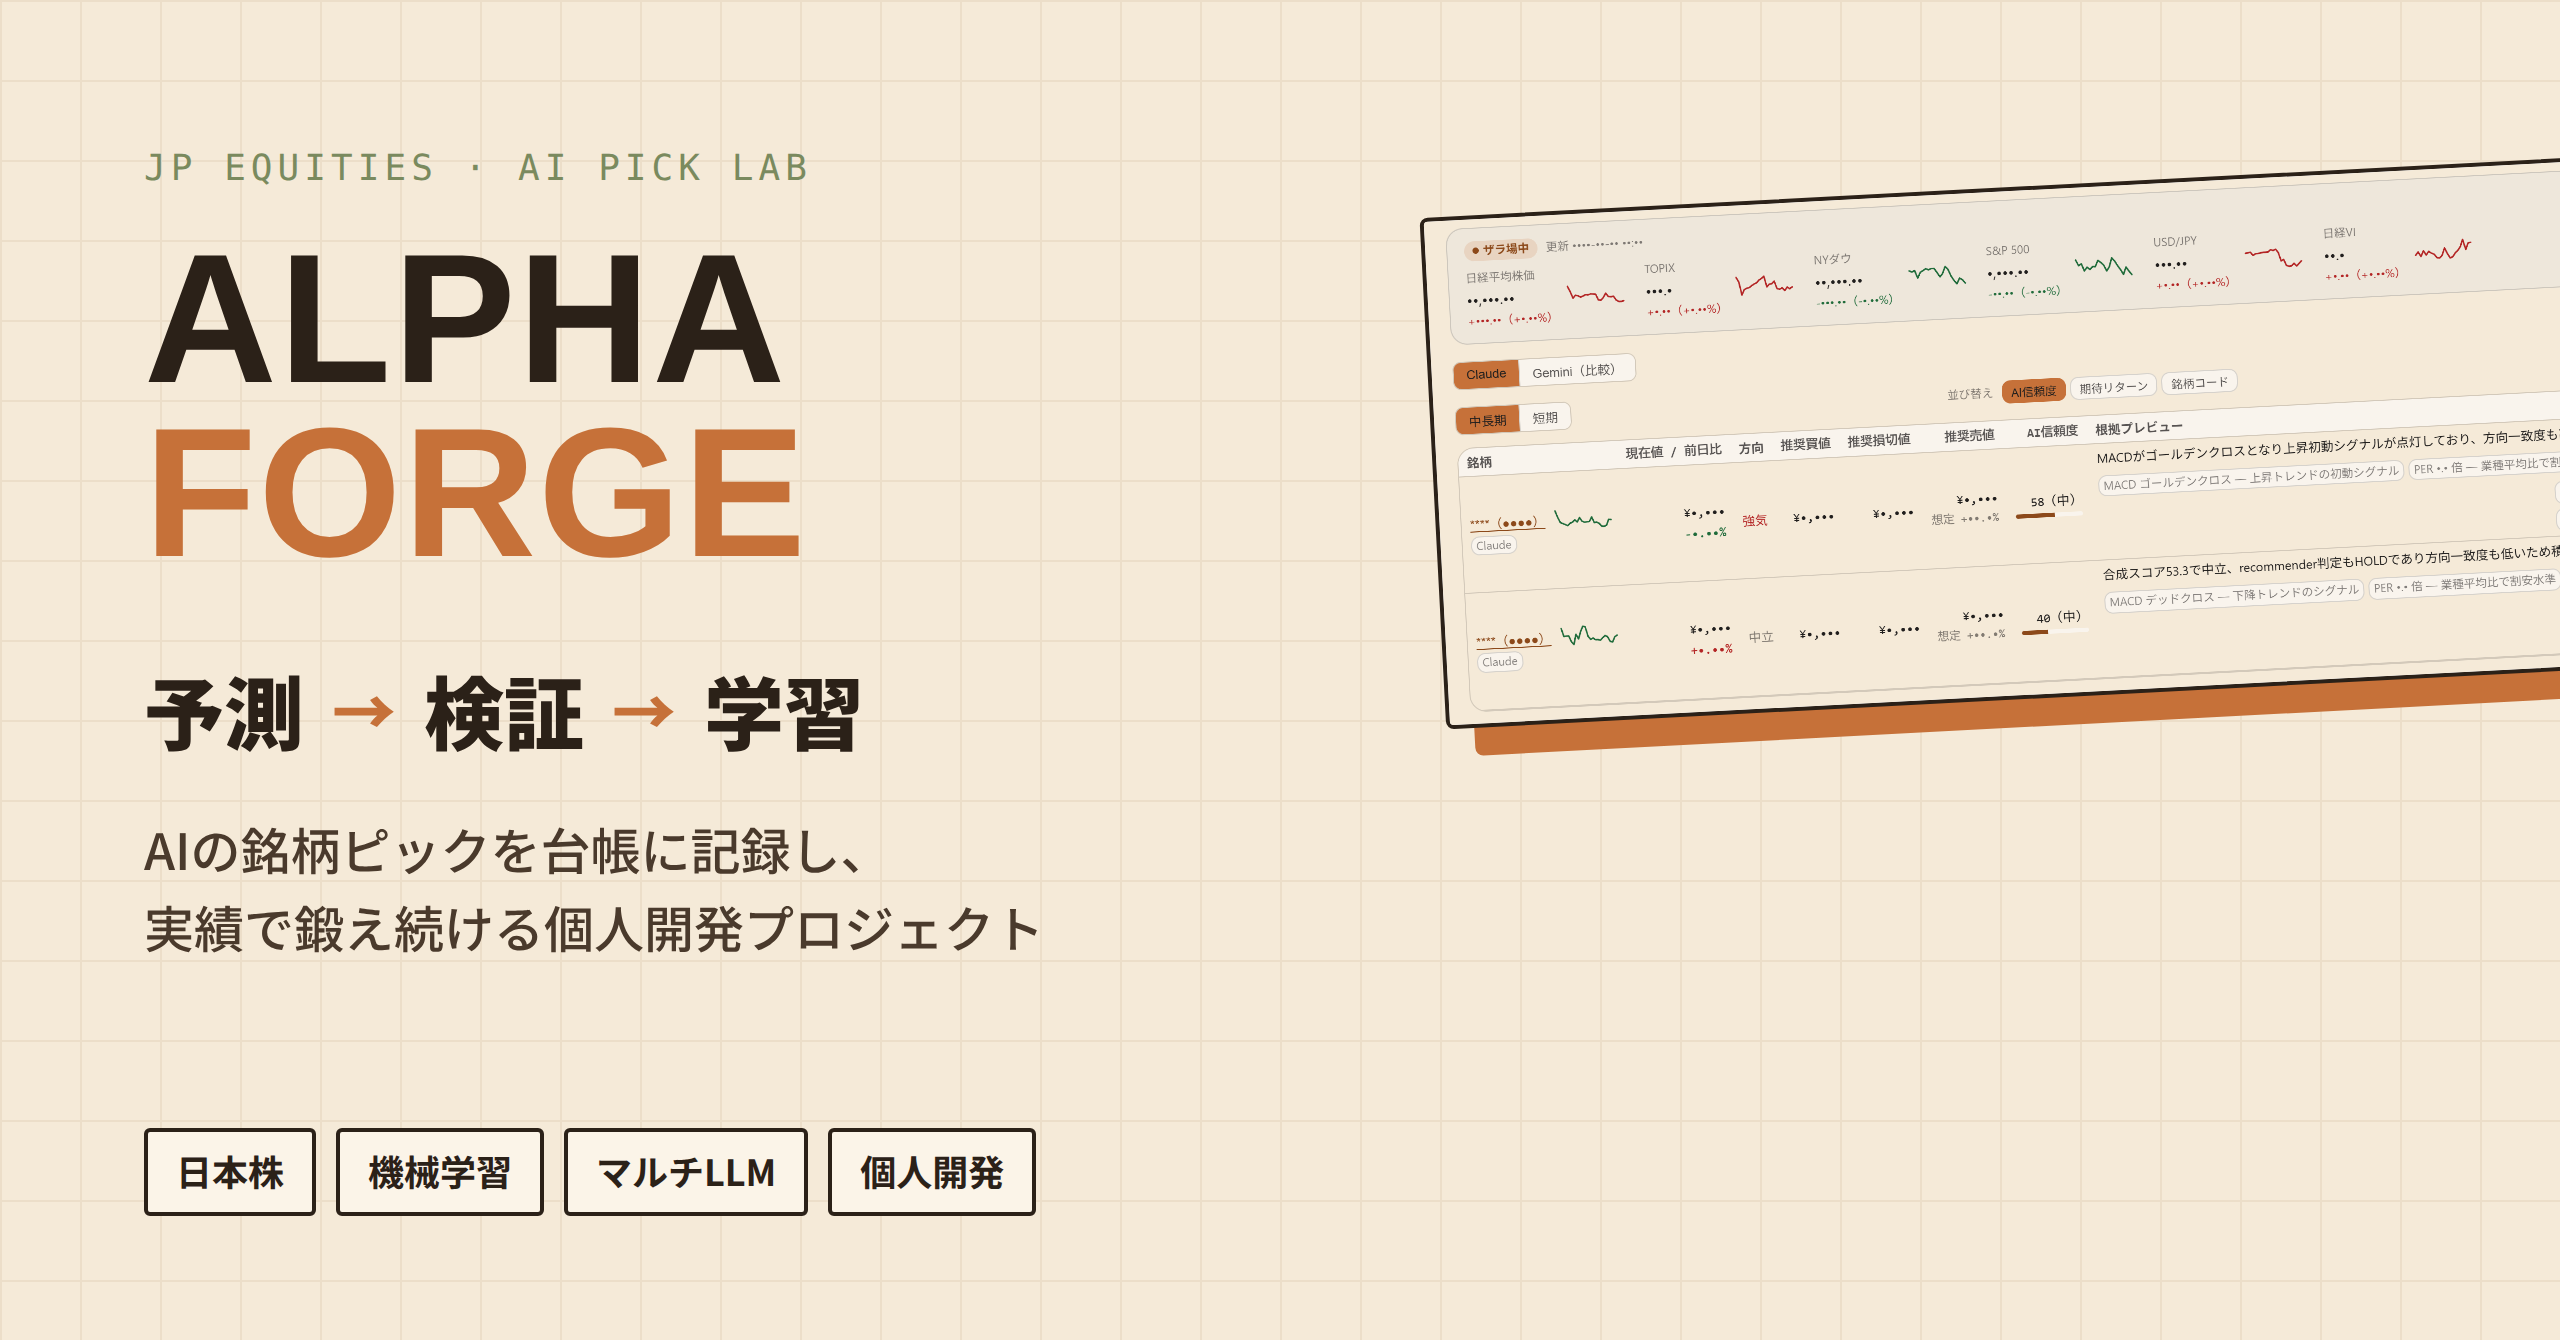
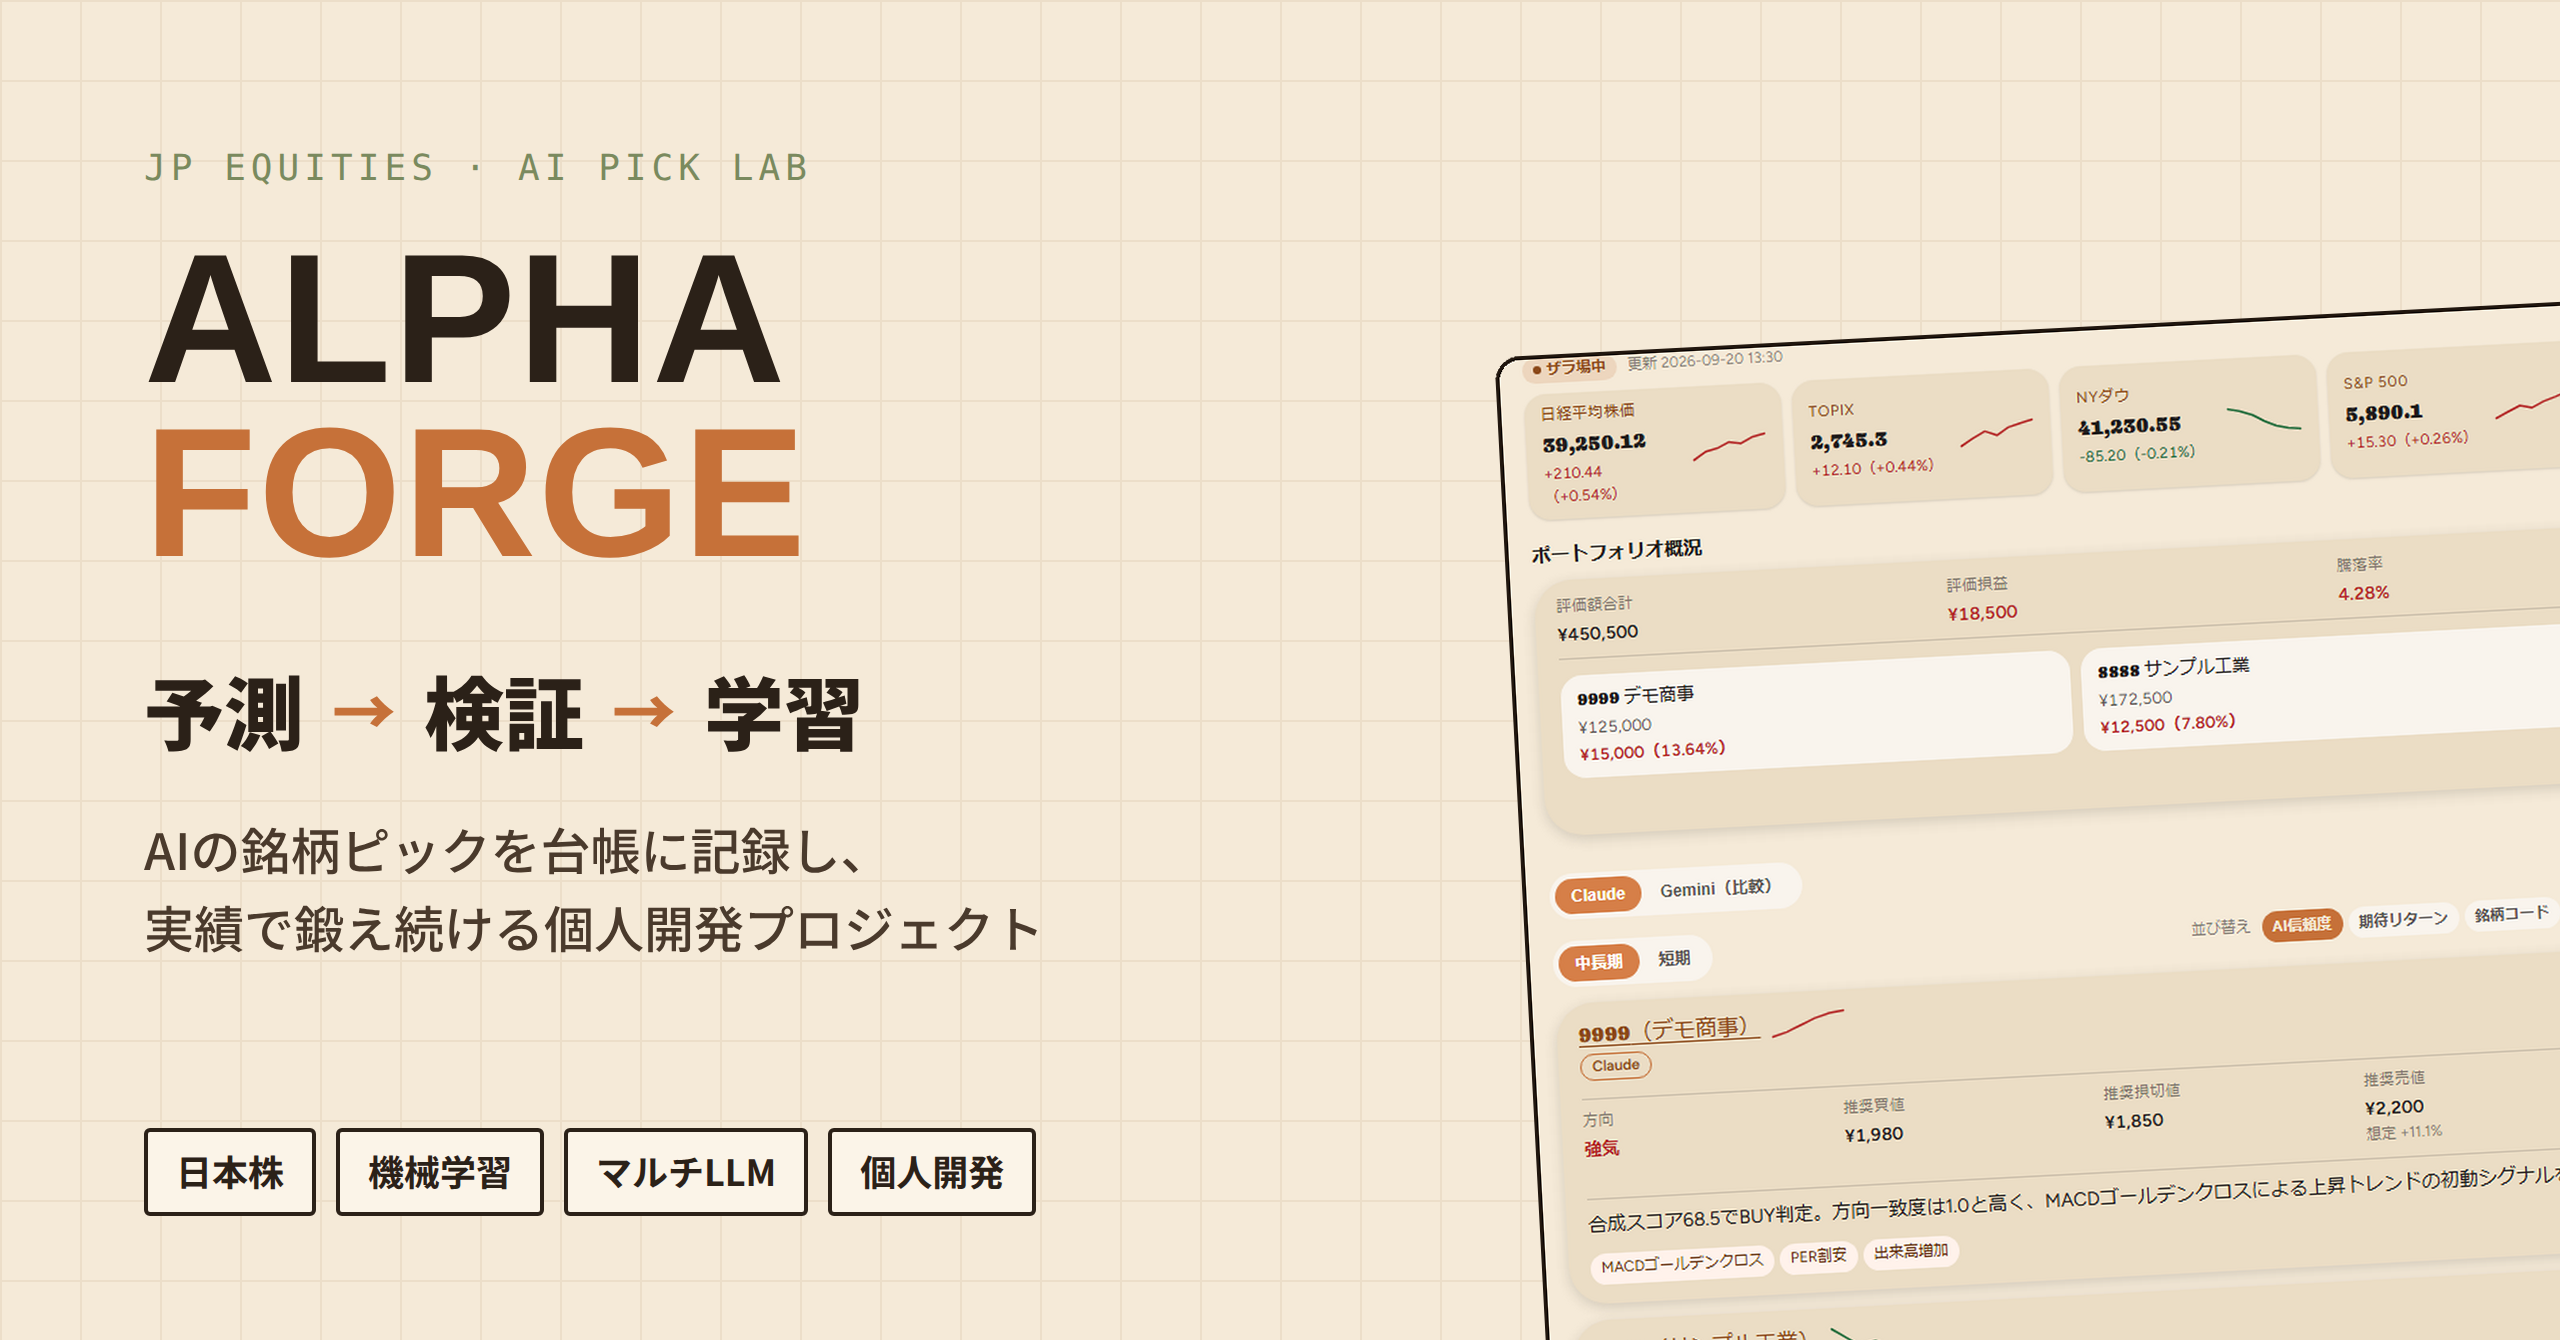
docs: note見出し画像（00_cover.png）をOrganicデザインシステムに合わせて更新
- docs/note/images/00_cover.png: 現行のOrganicデザインシステム（Caprasimo/Figtreeフォント・市況ティッカー・ポートフォリオ概況・カード型AIピック）に合わせて更新
- scripts/generate_cover.py: note見出し画像の精密生成・保守スクリプトを追加
- README.md: ディレクトリ構成とドキュメント紹介セクションを更新

diff --git a/scripts/generate_cover.py b/scripts/generate_cover.py
@@ -1,0 +1,114 @@
+import numpy as np
+from PIL import Image, ImageDraw
+
+
+def generate_cover(output_path="docs/note/images/00_cover.png"):
+    # 1. 元の cover 画像
+    base = Image.open("docs/note/images/00_cover.png").convert("RGBA")
+    W, H = base.size  # 2560, 1340
+
+    # 2. 背景グリッド
+    # トークン準拠: 背景色 #f5ead8, グリッド色 #ecdec9, ピッチ 80px, 線幅 2px
+    bg_color = (245, 234, 216, 255)
+    grid_color = (236, 222, 201, 255)
+    clean_canvas = Image.new("RGBA", (W, H), bg_color)
+    draw_canvas = ImageDraw.Draw(clean_canvas)
+
+    for x in range(0, W, 80):
+        draw_canvas.line([(x, 0), (x, H)], fill=grid_color, width=2)
+    for y in range(0, H, 80):
+        draw_canvas.line([(0, y), (W, y)], fill=grid_color, width=2)
+
+    # 3. 左側のオリジナル画像（x < 1300）をマスク合成
+    # タイポグラフィ・タグ等のオリジナル高品位デザインを100%保持
+    left_mask = Image.new("L", (W, H), 0)
+    draw_mask = ImageDraw.Draw(left_mask)
+    draw_mask.rectangle([(0, 0), (1300, H)], fill=255)
+    for i, x in enumerate(range(1300, 1340)):
+        alpha = int(255 * (1 - i / 40.0))
+        draw_mask.line([(x, 0), (x, H)], fill=alpha)
+
+    canvas = Image.composite(base, clean_canvas, left_mask)
+
+    # 4. 新しいダッシュボード画面からメインコンテンツを切り出し
+    dash = Image.open("docs/screenshots/dashboard.png").convert("RGBA")
+    # サイドバー境界 x=220、上部「● ザラ場中」の上マージンから
+    y_start = 56
+    # 9999 デモ商事カード全体 + 8888 サンプル工業のヘッダーが自然に収まる位置
+    y_end = 848
+    main_content = dash.crop((220, y_start, 1440, y_end))
+
+    # カードサイズ（高解像度スケール）
+    target_card_w = 1650
+    scale = target_card_w / main_content.width
+    target_card_h = int(main_content.height * scale)
+
+    resized_content = main_content.resize((target_card_w, target_card_h), Image.Resampling.LANCZOS)
+
+    card_w = target_card_w
+    card_h = target_card_h
+    shadow_offset_x = 18
+    shadow_offset_y = 22
+    shadow_color = (198, 113, 57, 255)  # #c67139 (tokens.css: --color-accent)
+    border_color = (32, 22, 14, 255)  # #20160e (tokens.css: --color-text-primary 近傍)
+    border_width = 4
+    corner_radius = 24
+
+    pad = 50
+    card_canvas_w = card_w + pad * 2 + shadow_offset_x + 10
+    card_canvas_h = card_h + pad * 2 + shadow_offset_y + 10
+    card_img = Image.new("RGBA", (card_canvas_w, card_canvas_h), (0, 0, 0, 0))
+    card_draw = ImageDraw.Draw(card_img)
+
+    # (1) ソリッドシャドウ描画
+    card_draw.rounded_rectangle(
+        [
+            (pad + shadow_offset_x, pad + shadow_offset_y),
+            (pad + card_w + shadow_offset_x, pad + card_h + shadow_offset_y),
+        ],
+        radius=corner_radius,
+        fill=shadow_color,
+    )
+
+    # (2) カード本体マスク描画 & コンテンツ貼り付け
+    mask = Image.new("L", (card_w, card_h), 0)
+    mask_draw = ImageDraw.Draw(mask)
+    mask_draw.rounded_rectangle([(0, 0), (card_w, card_h)], radius=corner_radius, fill=255)
+
+    card_body = Image.new("RGBA", (card_w, card_h), (245, 234, 216, 255))
+    card_body.paste(resized_content, (0, 0))
+    card_body.putalpha(mask)
+
+    card_img.paste(card_body, (pad, pad), card_body)
+
+    # (3) ボーダー描画
+    card_draw.rounded_rectangle(
+        [(pad, pad), (pad + card_w, pad + card_h)], radius=corner_radius, outline=border_color, width=border_width
+    )
+
+    # 5. 反時計回りに -2.988 度回転
+    rotated_card = card_img.rotate(2.988, resample=Image.Resampling.BICUBIC, expand=True)
+
+    # 6. 配置位置の精密計算 (元の 00_cover.png の Top-Left: (1441, 217) に完全一致)
+    target_tl_x = 1441
+    target_tl_y = 217
+
+    rot_arr = np.array(rotated_card)
+    rot_dark = (rot_arr[:, :, 0] < 50) & (rot_arr[:, :, 1] < 45) & (rot_arr[:, :, 2] < 35)
+    ys, xs = np.where(rot_dark)
+    min_x = xs.min()
+    min_y_at_min_x = ys[xs == min_x].min()
+
+    paste_x = int(round(target_tl_x - min_x))
+    paste_y = int(round(target_tl_y - min_y_at_min_x))
+
+    canvas.paste(rotated_card, (paste_x, paste_y), rotated_card)
+
+    # RGB 形式（2560x1340, note 推奨フォーマット）に変換して保存
+    final_img = canvas.convert("RGB")
+    final_img.save(output_path, quality=95, optimize=True)
+    print(f"Successfully updated {output_path} (size: {final_img.size}, mode: {final_img.mode})")
+
+
+if __name__ == "__main__":
+    generate_cover("docs/note/images/00_cover.png")

diff --git a/README.md b/README.md
@@ -77,6 +77,9 @@
 | 非同期 | Celery + Redis（DB 番号 4 / 5） | — |
 
 ```
+scripts/
+  export_openapi.py  OpenAPI スキーマ再エクスポート
+  generate_cover.py  note 見出し画像（00_cover.png）生成
 backend/
   main.py            FastAPI アプリ（/health, /api/health）
   config.py          env 一元（起動時 fail-fast）
@@ -85,13 +88,18 @@ backend/
   routers/           HTTP / WS エンドポイント
   services/          ドメインロジック
 frontend/
-  src/app/           dashboard / stock-detail / portfolio / model-lab / notifications
-  src/components/     ui / layout / pipeline / dashboard / portfolio / notify / model-lab / stock-detail
+  src/app/           dashboard / stock-detail / chart / portfolio / model-lab / notifications / settings
+  src/components/    ui / layout / pipeline / dashboard / portfolio / notify / model-lab / stock-detail / chart
   src/lib/           API クライアント / SSE・WS クライアント / push（Web Push）
-  src/middleware.ts  nonce ベース CSP
+  src/proxy.ts       nonce ベース CSP
   e2e/               Playwright E2E テスト
 plans/               PRD / アーキテクチャ / システム設計 / タスクリスト / 決定ログ
-docs/                as-built アーキテクチャ概観・運用 Runbook・OpenAPI
+docs/
+  note/              note 投稿記事原本（alpha-forge-note-01.html）および見出し・解説図（images/）
+  screenshots/       README 掲載用スクリーンショット
+  architecture.md    as-built アーキテクチャ概観
+  operations.md      運用 Runbook
+  openapi.json       OpenAPI スキーマ
 ```
 
 ## セットアップ（Windows / PowerShell）
@@ -155,3 +163,11 @@ npx playwright test   # backend を先に起動しておくこと
 AI 思考の可視化 / ポートフォリオ承認キュー / 通知 / モデルラボ）。詳細な as-built
 アーキテクチャは [`docs/architecture.md`](docs/architecture.md)、運用は
 [`docs/operations.md`](docs/operations.md) を参照。
+
+## ドキュメント・紹介記事
+
+- **アーキテクチャ・運用**: 詳細な as-built アーキテクチャは [`docs/architecture.md`](docs/architecture.md)、運用手順・自走スケジュールは [`docs/operations.md`](docs/operations.md) を参照。
+- **note 紹介記事**: [`docs/note/alpha-forge-note-01.html`](docs/note/alpha-forge-note-01.html)（AI ピックの手法・4分析・継続学習ループを解説する note 向け単一 HTML 記事）。
+  - 図版・キャプチャ原本: [`docs/note/images/`](docs/note/images/)
+  - 見出し画像（[`00_cover.png`](docs/note/images/00_cover.png)）は `python scripts/generate_cover.py` により現行 UI（Organic デザインシステム）に合わせて自動生成可能。
+
